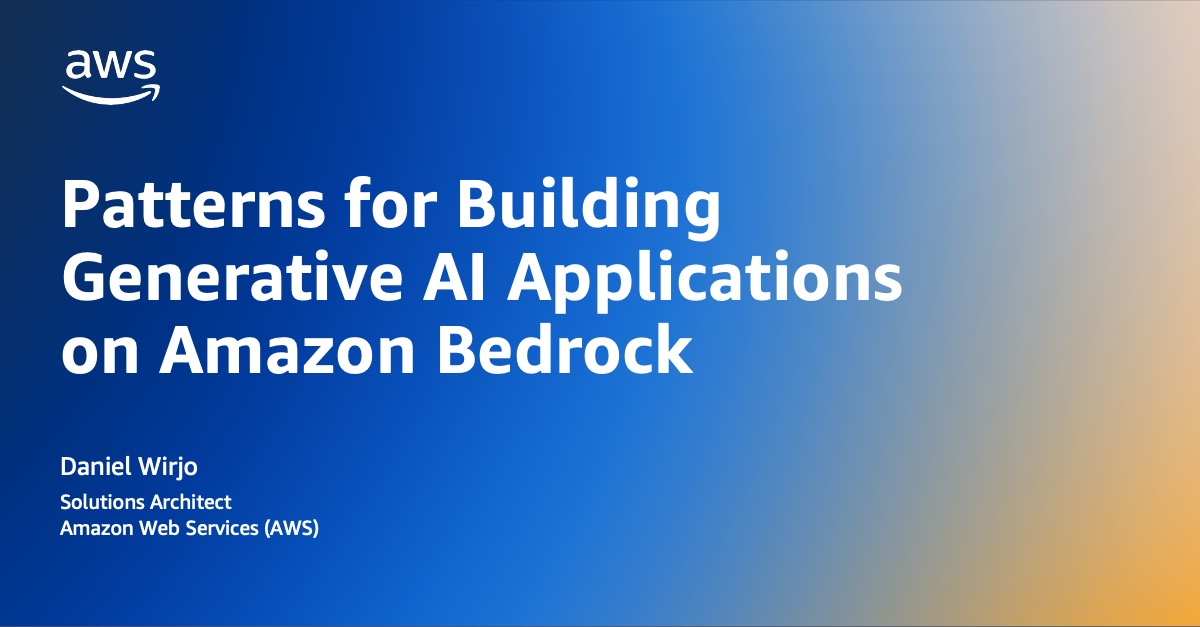
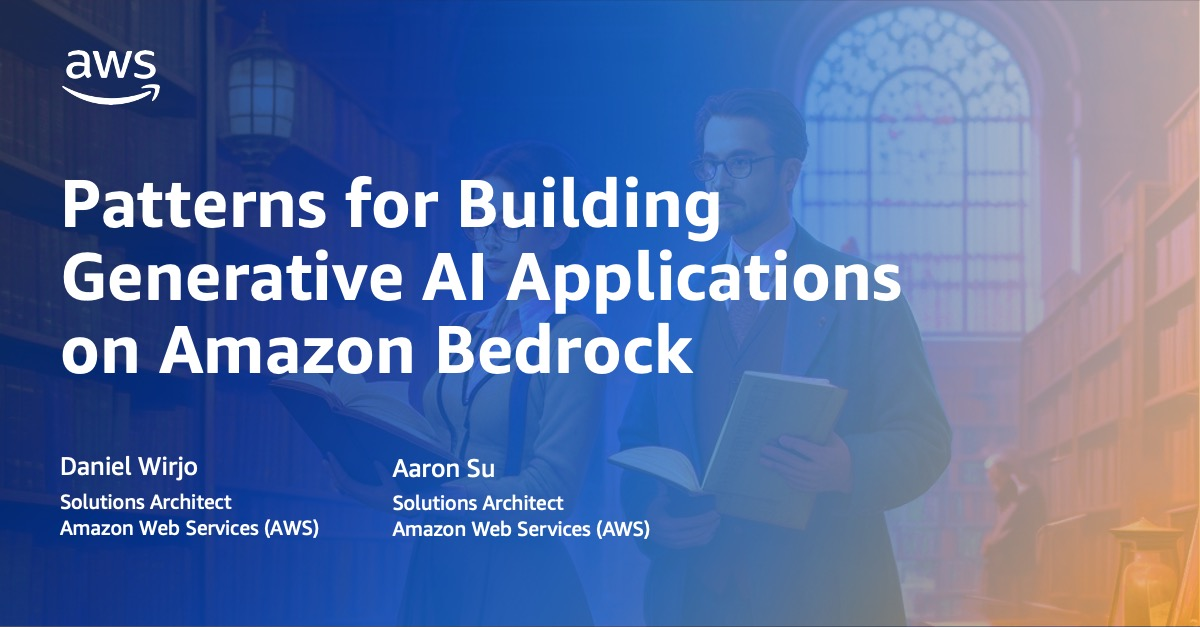
fix: add illustration and incorporate edits/feedback

diff --git a/posts/build-generative-ai-applications-with-amazon-bedrock/index.md b/posts/build-generative-ai-applications-with-amazon-bedrock/index.md
@@ -1,9 +1,10 @@
 ---
 title: "Patterns for Building Generative AI Applications on Amazon Bedrock"
-description: Software developers are embracing generative AI. This post covers high-level reference architectures for common scenarios, considerations and best-practices learned from our experience working with early adopters.
+description: With generative AI, we are introduced to a new, exciting and powerful primitive for building software. Learn how you can build generative AI applications without deep machine learning expertise. We cover foundational patterns, considerations, and practices learned from our experience working with early adopters.
 tags:
   - generative-ai
   - bedrock
+  - ai-ml
   - langchain
 spaces:
   - generative-ai
@@ -14,7 +15,9 @@ images:
   hero: images/cover.jpg
 authorGithubAlias: wirjo
 authorName: Daniel Wirjo
-date: 2023-10-09
+additionalAuthors: 
+  - authorGithubAlias: aaronsu11
+    authorName: Aaron Su
 ---
 
 |ToC|
@@ -22,20 +25,27 @@ date: 2023-10-09
 
 ## Introduction to Generative AI
 
-Software developers are embracing generative AI. With foundation models (FMs) now accessible on [Amazon Bedrock](https://aws.amazon.com/bedrock/), small teams can build and scale generative AI applications without deep machine learning (ML) expertise and resources. This post covers three high-level reference architectures for common scenarios, considerations and best-practices learned from our experience working with early adopters.
+Recently, we have seen a real interest among teams and developers on generative AI. While some are still figuring out what it means for their business and industries, others are all in: embracing the new possibilities. At AWS, we are excited to help you along the journey - from exploration of use cases, to implementation and deployment to production. We have been genuinely captivated by the continuing evolution of generative AI: from technical advancements, to discovering new use cases, and emerging approaches to developing software. 
+
+With [Amazon Bedrock](https://aws.amazon.com/bedrock/), you can now access leading generative AI foundation models (FMs) through easy-to-use APIs. With Bedrock, even small teams can build and scale generative AI applications. Whether you're enhancing existing customer experiences or innovating with new products and services, we're excited to see what you build. 
+
+In this post, you will delve into three high-level reference architectures, covering the key building blocks of generative AI applications. Drawn from our collaboration with early adopters, you will learn about practical considerations and emerging best-practices to guide your implementation.
+
 ## Why Generative AI?
 
-Typically, traditional ML models only perform a single task. They require a build, train and deploy lifecycle (MLOps) which can be challenging for smaller teams. On the other hand, FMs are trained on large datasets. They use broad knowledge to solve multiple tasks, such as text generation, classification, analysis and summarisation. They enable emerging architectures previously not possible. They are significantly easier to build, scale and maintain. 
+Typically, traditional ML models can only perform a single task. They require a build, train and deploy lifecycle (MLOps) which can be challenging for smaller teams. On the other hand, FMs are trained on large datasets. They use broad knowledge to solve multiple tasks, such as text generation, classification, analysis and summarisation — all through natural language prompts. They enable emerging architectures previously not possible. And, they are significantly easier to build, scale and maintain. 
 
 ## Retrieval Augmented Generation (RAG) Application
 
-You can incorporate generative AI into your applications leveraging your own data. This is driven by a foundational architecture, *retrieval-augmented generation (RAG)*. It solves inherent knowledge limitations of FMs by integrating with data that are not part of the model’s training. All achieved without complexities associated with re-training and managing MLOps processes.
+You can incorporate generative AI into your applications leveraging your own data. This is driven by a foundational architecture, *retrieval-augmented generation (RAG)*. It solves inherent knowledge limitations of FMs by integrating with data that are not part of the model’s training. All achieved without complexities associated with re-training and MLOps.
+
+To illustrate, imagine a skilled researcher (retrieval) that fetches the most relevant books from a vast library, and a creative expert professional (generation) that suggests ideas and answers with the knowledge in the books.
+
+![Illustration of retrieval-augmented generation analogy](./images/rag-illustration.jpg "Illustration of RAG concept generated with Leonardo Ai")
 
 ### Example RAG Prompt
 
-To illustrate, imagine a skilled researcher (retrieval) that fetches the most relevant books from a vast library, and a creative expert professional (generation) that suggests ideas and answers with the knowledge in the books. 
-
-Now, consider a prompt with *context* (retrieval) and *instruction* (generation) elements:
+Now, consider a prompt with *context* (retrieval) and *instruction* (generation) elements. Here, you provide *context* by finding and inserting the relevant data to the question (retrieval). And, you provide *instruction* to conduct a task based on the context such as summarization (generation).
 
 ```
 Context:
@@ -48,57 +58,75 @@ Context:
 Instruction: 
 You are an expert AWS Solutions Architect. 
 Provide me with expert insights on {question}. 
-Summarize insights and recommendations based only on the context. 
-If the context does not provide the answer, say "I don't know".
-```
-
-Here, you provide *context* by finding and inserting the relevant data to the question (retrieval). And, you provide *instruction* to conduct a task based on the context such as summarization (generation). Commonly, instructions can also: 
-* Prevent hallucination by [letting the model say “I don’t know”](https://docs.anthropic.com/claude/docs/let-claude-say-i-dont-know)  
-* Provide a level of explainability by [asking to cite sources](https://docs.anthropic.com/claude/docs/advanced-text-analysis) 
+Summarize insights and recommendations based only on the Context. 
+If the Context does not provide the answer, say "I don't know".
+``` 
 
 Note curly brackets `{placeholders}` are template placeholders and you replace them with actual data.   
 
-### AWS Reference Architecture for a RAG Application 
+### Hallucination and Explainability
 
-A RAG application consists of key components:
+As FMs are fundamentally probabilistic models, they can hallucinate and may provide made up, erroneous outputs. To mitigate this, models such as [Anthropic Claude](https://aws.amazon.com/bedrock/claude/) support instructions to: 
+
+* Prevent hallucination by [letting the model say “I don’t know”](https://docs.anthropic.com/claude/docs/let-claude-say-i-dont-know)  
+* Provide a level of explainability by [asking to cite sources](https://docs.anthropic.com/claude/docs/advanced-text-analysis) 
+
+As a result, these instructions are commonly used in a [prompt template](https://js.langchain.com/docs/modules/model_io/prompts/prompt_templates/). Crafting the right prompt (also known as [prompt engineering](https://aws.amazon.com/what-is/prompt-engineering/)) is a key component in building generative AI applications.
+
+### Reference Architecture
+
+At a high-level, the architecture consists of two key components:
 * **RAG Pipeline** to process data from your knowledge sources
-* **RAG Runtime** to process user prompts 
+* **RAG Runtime** to process user prompts using Bedrock
 
-#### RAG Pipeline
+To orchestrate, you adopt an open-source tool, such as [LangChain](https://js.langchain.com/docs/get_started/introduction). LangChain contains pre-built libraries for integrating with [various data sources](https://js.langchain.com/docs/modules/data_connection/) and [Bedrock](https://python.langchain.com/docs/integrations/platforms/aws). Alternatively, you can use [LlamaIndex](https://docs.llamaindex.ai/) or [Haystack](https://docs.haystack.deepset.ai/). 
+
+### RAG Pipeline
+
+First, you convert data from knowledge sources (such as [Amazon S3](https://aws.amazon.com/s3/) or [Amazon DynamoDB](https://aws.amazon.com/dynamodb/)) to an appropriate vector format for later retrieval. 
+
 ![AWS reference architecture for a retrieval-augmented generation (RAG) pipeline](./images/image.png)
-First, you convert data from your knowledge source (such as Amazon S3 or Amazon DynamoDB) to an appropriate vector format for later retrieval. You adopt an open-source FM orchestration tool, such as [LangChain](https://js.langchain.com/docs/get_started/introduction) (alternatively, [LlamaIndex](https://docs.llamaindex.ai/) and [Haystack](https://docs.haystack.deepset.ai/)). These tools contain pre-built libraries for [integrating with Bedrock](https://python.langchain.com/docs/integrations/platforms/aws) and [various data sources](https://js.langchain.com/docs/modules/data_connection/).  
 
 Consider the following steps:
 
 **Prepare:** You collect, clean and transform data for later processing. For example, you transform raw data into a structured format such as JSON, identify metadata that are useful for filtering and access control, and remove any erroneous or unnecessary data. 
 
-**Chunk:** For large text, you use [document transformers](https://js.langchain.com/docs/modules/data_connection/document_transformers/) to split them into chunks. This is because FMs have a limited context window. Typically, you find an optimal chunking strategy through trial and error. As it depends highly on the specific content, you will need to balance preserving context and maintaining accuracy.
+**Chunk:** FMs have a limited context window. For large text, you use [document transformers](https://js.langchain.com/docs/modules/data_connection/document_transformers/) to split them into chunks. Typically, you find an optimal chunking strategy through trial and error. As it depends highly on the specific content, you will need to balance preserving context and maintaining accuracy. 
 
-**Vectorize:** You convert data into embeddings. Embeddings is simply a vector representation of the data in a multi-dimensional space. It facilitates retrieval through similarity search. To get started, try an [embeddings model from Amazon Bedrock](https://docs.aws.amazon.com/bedrock/latest/userguide/embeddings.html). Alternatively, there are open-source models that are benchmarked on [Massive Text Embedding Benchmark \(MTEB\) leaderboard](https://huggingface.co/spaces/mteb/leaderboard) such as [sentence-transformer](https://huggingface.co/sentence-transformers). 
+**Vectorize:** You convert data into embeddings. An embedding is simply a vector representation of the data in a multi-dimensional space. It facilitates retrieval through similarity search. To get started, try an [embeddings model from Bedrock](https://docs.aws.amazon.com/bedrock/latest/userguide/embeddings.html). Alternatively, open-source models on [Massive Text Embedding Benchmark \(MTEB\) leaderboard](https://huggingface.co/spaces/mteb/leaderboard) such as [sentence-transformer](https://huggingface.co/sentence-transformers). 
 
-*Dimensionality:* Consider dimensionality of vector embeddings. For example, *Amazon Titan Text Embeddings* have 1,536 dimensions. Dense vectors with higher dimensions provide greater factors for similarity. However, your vector database may have limitations on dimensions. Sparse vectors with lower dimensions can also improve efficiency and performance.
+*Dimensionality:* Consider dimensionality of vector embeddings. For example, [Amazon Titan Text Embeddings](https://aws.amazon.com/bedrock/titan/) have 1,536 dimensions. Dense vectors with higher dimensions provide greater factors for similarity. However, sparse vectors with lower dimensions may improve efficiency and performance. And, vector databases may also impose limitations on dimensions.
 
-**Store:** You store the generated embeddings into a [vector database](https://aws.amazon.com/blogs/database/the-role-of-vector-datastores-in-generative-ai-applications/), such as [Amazon OpenSearch Serverless](https://aws.amazon.com/opensearch-service/serverless-vector-engine/). Initially, you load data in [bulk](https://opensearch.org/docs/latest/api-reference/document-apis/bulk/). As new data is generated, you build a pipeline. For example, you use [knowledge bases for Amazon Bedrock](https://docs.aws.amazon.com/bedrock/latest/userguide/knowledge-base.html) or build an event-driven architecture with [Amazon S3 events](https://docs.aws.amazon.com/AmazonS3/latest/userguide/EventNotifications.html) or [Amazon DynamoDB streams with Amazon EventBridge Pipe](https://docs.aws.amazon.com/eventbridge/latest/userguide/eb-pipes-dynamodb.html) to trigger a Lambda function to [index](https://opensearch.org/docs/latest/api-reference/document-apis/index-document/) new data. 
+**Store:** You store the embeddings into a [vector database](https://aws.amazon.com/blogs/database/the-role-of-vector-datastores-in-generative-ai-applications/), such as [Amazon OpenSearch Serverless](https://aws.amazon.com/opensearch-service/serverless-vector-engine/). Initially, you load data in [bulk](https://opensearch.org/docs/latest/api-reference/document-apis/bulk/). As new data is generated, you build a pipeline. For example, you use [knowledge bases for Amazon Bedrock](https://docs.aws.amazon.com/bedrock/latest/userguide/knowledge-base.html). Or, an event-driven architecture with [Amazon S3 events](https://docs.aws.amazon.com/AmazonS3/latest/userguide/EventNotifications.html) or [Amazon DynamoDB streams with Amazon EventBridge Pipe](https://docs.aws.amazon.com/eventbridge/latest/userguide/eb-pipes-dynamodb.html) to trigger a Lambda function to [index](https://opensearch.org/docs/latest/api-reference/document-apis/index-document/) new data. 
 
-As the vector store may handle sensitive data, consider security capabilities such as encryption and access control. You can also redact or mask of personal information prior to storage. For SaaS applications, consider [multi-tenancy](https://aws.amazon.com/blogs/apn/storing-multi-tenant-saas-data-with-amazon-opensearch-service/). In addition, there are many alternative vector database options, such as [Pinecone](https://aws.amazon.com/marketplace/seller-profile?id=03ee3233-4417-4279-81ac-8e3bbd6282e8), [Weaviate](https://aws.amazon.com/marketplace/seller-profile?id=seller-jxgfug62rvpxs) and [pgvector](https://aws.amazon.com/blogs/database/leverage-pgvector-and-amazon-aurora-postgresql-for-natural-language-processing-chatbots-and-sentiment-analysis/). For prototyping, in-memory stores, such as  [Faiss](https://js.langchain.com/docs/modules/data_connection/vectorstores/integrations/faiss) and [Chroma](https://js.langchain.com/docs/modules/data_connection/vectorstores/integrations/chroma), provide a convenient developer experience.
+*Data security:* As the vector database may handle sensitive data, consider data protection controls such as encryption, access control, and redaction/masking of sensitive personal information. 
+
+*Multi-tenancy*: For SaaS applications, consider [multi-tenancy](https://aws.amazon.com/blogs/apn/storing-multi-tenant-saas-data-with-amazon-opensearch-service/) to keep data for a particular customer (tenant) private and inaccessible to others.
+
+*Vector databases*: In addition to OpenSearch, you can use [pgvector](https://aws.amazon.com/blogs/database/building-ai-powered-search-in-postgresql-using-amazon-sagemaker-and-pgvector/). For prototyping, you can use in-memory stores, such as [Faiss](https://js.langchain.com/docs/modules/data_connection/vectorstores/integrations/faiss) and [Chroma](https://js.langchain.com/docs/modules/data_connection/vectorstores/integrations/chroma), which provide a convenient developer experience to get started. For third-party vector databases, AWS Marketplace provides access to leading providers including [Pinecone](https://aws.amazon.com/marketplace/seller-profile?id=03ee3233-4417-4279-81ac-8e3bbd6282e8), [Weaviate](https://aws.amazon.com/marketplace/seller-profile?id=seller-jxgfug62rvpxs) and [MongoDB Atlas Vector Search](https://www.mongodb.com/products/platform/atlas-vector-search). 
 
 #### RAG Runtime
+At runtime, your application will need to process the user’s original input prompt and augment it with the retrieved context. 
 ![AWS reference architecture for retrieval-augmented generation (RAG)](./images/image%202.png)
-At runtime, your application will need to process the user’s input prompt and augment it with retrieved context. Consider the following steps:
 
-**Retrieve:** You retrieve relevant data from the vector database. In addition to vector storage, vector databases provide indexing and retrieval capabilities. A starting approach is *semantic search*. Here, you convert the input prompt into embeddings. Then, you find similar embeddings in the vector database using a k-nearest neighbors (kNN) algorithm. By using vectors, you can understand the meaning behind prompts and deliver contextually relevant results.
+Consider the following steps:
 
-*Advanced retrieval:* Domain-specific terminologies may not be represented well in the training data of the embeddings model. If this is the case, search results may be less accurate. You improve this with *hybrid search*. You combine semantic search with a [traditional document search, such as BM25](https://aws.amazon.com/what-is/document-search/).  In addition, consider orchestrating advanced retrieval techniques. For example , [maximal marginal relevance (MMR)](https://python.langchain.com/docs/modules/model_io/prompts/example_selectors/mmr) for diversity of results, or [ensemble retrieval](https://gpt-index.readthedocs.io/en/stable/examples/retrievers/ensemble_retrieval.html) to attempt multiple strategies at the same time.
+**Retrieve:** You retrieve relevant data from the vector database. In addition to vector storage, vector databases provide indexing and retrieval capabilities. A starting approach is *semantic search*. Here, you convert the input prompt into embeddings. Then, you find similar embeddings in the vector database using a nearest neighbors search. By using vectors, you understand the meaning behind prompts and deliver contextually relevant results. (Under the hood, a popular algorithm for vector search is Hierarchical Navigable Small World (HNSW), see [aws-samples/gofast-hnsw](https://github.com/aws-samples/gofast-hnsw)) 
 
-**Generate:** You generate an output by inputing a prompt with the retrieved data as context. The output depends on the model you choose, and prompt you design.
+*Advanced retrieval:* Unfortunately, entities or domain-specific terminologies may not be represented well in the training data of popular embeddings model. As a result, using semantic search alone may produce less accurate results. You improve this with *hybrid search*. Here, you combine semantic search with a traditional [document search (such as BM25)](https://aws.amazon.com/what-is/document-search/). In addition, consider orchestrating advanced retrieval techniques. For example, [contextual compression](https://js.langchain.com/docs/modules/data_connection/retrievers/how_to/contextual_compression) to remove irrelevant text, [maximal marginal relevance (MMR)](https://python.langchain.com/docs/modules/model_io/prompts/example_selectors/mmr) to diversify results, or [ensemble retrieval](https://python.langchain.com/docs/modules/data_connection/retrievers/ensemble) to combine multiple strategies.
 
-*Model selection:* With Bedrock, you get access to leading foundation models with enterprise-grade security. You choose a model that supports your use case, context length, and price-performance requirements. You use [InvokeModel](https://docs.aws.amazon.com/bedrock/latest/APIReference/API_runtime_InvokeModel.html) via the [AWS SDK](https://docs.aws.amazon.com/bedrock/latest/userguide/api-setup.html). Consistent with other AWS services, you configure access using AWS Identity and Access Management (IAM), view audit logs in AWS CloudTrail, optionally enable private connectivity using AWS PrivateLink. 
+**Generate:** You generate an output by inputting a prompt with the retrieved data as context. The output depends on the model you select, and prompt you design.
 
-*Prompt design:* For effective prompts, be specific with instructions. This includes the desired output format (such as text within specific template or length, or a structured format such as JSON, XML, YAML and markdown). Consider best-practices from the model provider. For example, see [prompt design for Anthropic Claude](https://docs.anthropic.com/claude/docs/introduction-to-prompt-design). For prototyping, you design a number of test cases. You set [temperature](https://docs.aws.amazon.com/bedrock/latest/userguide/model-parameters.html#model-parameters-claude) to `0` to mitigate randomness in the output for evaluation. 
+*Model selection:* With Bedrock, you get access to leading foundation models with enterprise-grade security. You choose a model that supports your use case, context length, and price-performance requirements. You use [InvokeModel](https://docs.aws.amazon.com/bedrock/latest/APIReference/API_runtime_InvokeModel.html) via the [AWS SDK](https://docs.aws.amazon.com/bedrock/latest/userguide/api-setup.html). Consistent with other AWS services, you configure access using [AWS IAM](https://aws.amazon.com/iam/), view audit logs in [AWS CloudTrail](https://aws.amazon.com/cloudtrail/), optionally enable private connectivity using [AWS PrivateLink](https://aws.amazon.com/privatelink/). 
+
+*Prompt design:* For effective prompts, be specific with instructions. This includes the desired output format (such as text within specific template or length, or a structured format such as JSON, XML, YAML and markdown). Consider best-practices from the model provider. For example, see [prompt design](https://docs.anthropic.com/claude/docs/introduction-to-prompt-design). For prototyping, you design a number of test cases. You set [temperature](https://docs.aws.amazon.com/bedrock/latest/userguide/model-parameters.html#model-parameters-claude) to `0` to mitigate randomness in the output for evaluation. 
 
 ## Generative AI Chat Applications
+With RAG as foundation, you build a conversational chat feature to provide a fast, intuitive and natural experience for your users. While this may sound simple, it can be deceivingly challenging to build. 
+
 ![AWS reference architecture for generative AI chat application](./images/image%203.png)
-With RAG as foundation, you build a conversational chat feature to provide a fast, intuitive and natural experience for your users. While this sounds simple, it can be deceivingly challenging to build. Consider additional elements required:  
+
+Consider additional elements:  
 
 **Memory:** You may need to remember previous interactions to understand follow-up questions. By default, models are stateless. However, you can incorporate [memory](https://js.langchain.com/docs/modules/memory/) with low-latency store such as [DynamoDB](https://js.langchain.com/docs/modules/memory/integrations/dynamodb).  There are advanced types of memory. For example, [conversation summary ](https://js.langchain.com/docs/modules/memory/how_to/summary)  for handling long-chat interactions. 
 
@@ -106,33 +134,33 @@ With RAG as foundation, you build a conversational chat feature to provide a fas
 ![AWS reference architecture for scalable generative AI application](./images/image%204.png)
 **Throughput (requests):** Your application may require high throughput. Consider [service quotas](https://docs.aws.amazon.com/bedrock/latest/userguide/quotas.html). To manage requests per minute (RPM), you use an [Amazon Simple Queue Service \(SQS\)](https://aws.amazon.com/sqs/) queue to asynchronously process requests. 
 
-**Throughput (tokens):** With generative AI services, you also need to manage tokens processed per minute (TPM). Tokens consumed depends on the length of prompts, usage frequency which can vary widely depending on the use case. 10,000 tokens is approximately equivalent to 750 words. One approach is to limit input prompts to a maximum number of words. When you achieve scale, consider [provisioned throughput](https://docs.aws.amazon.com/bedrock/latest/userguide/prov-throughput.html).   
+**Throughput (tokens):** With generative AI services, you also need to manage tokens processed per minute (TPM). Tokens consumed depends on the length of prompts, usage frequency which can vary widely depending on the use case. 1,000 tokens is approximately equivalent to 750 words. One approach is to limit input prompts to a maximum number of words. When you achieve scale, consider [provisioned throughput](https://docs.aws.amazon.com/bedrock/latest/userguide/prov-throughput.html).   
 
 **Monitoring:** You monitor token consumption by instrumenting [custom metrics](https://docs.aws.amazon.com/AmazonCloudWatch/latest/monitoring/publishingMetrics.html).  You add any additional context that can help you understand and manage performance, such as the model name and the tenant context. In addition, consider the [quota monitoring](https://aws.amazon.com/solutions/implementations/quota-monitor/) solution.
 
 ## Generative AI Advanced Workflow Applications
+
+As you build AI applications, you may start with simple model interactions. However, your user journey may have multiple steps that benefit from AI. You may require advanced, multi-step and parallel processes integrating with various systems. For example, a content creation tool can invoke variation of prompts in parallel. Leveraging the creativity of generative models, they generate multiple outputs for users to select. These outputs can be further improved through additional prompts and operations.
+
 ![AWS reference architecture for an advanced generative AI workflow application](./images/image%205.png)
-As you build AI applications, you may start with simple model interactions. However, your user journey may have multiple steps that benefit from AI. You may require advanced, multi-step and parallel processes integrating with various systems. 
 
-As an example, content creation tools can invoke the same prompt in parallel. Leveraging the randomness of generative models, they generate multiple outputs for users to select. These outputs can be further improved through additional prompts and operations.
+Consider additional elements:
 
-Consider additional elements required:
+**Orchestration:** In the infrastructure layer, you can orchestrate a workflow with event-driven services such as [Amazon EventBridge](https://aws.amazon.com/eventbridge/) and [AWS Step Functions](https://aws.amazon.com/step-functions/). In the application layer, tools such as LangChain support [chains](https://js.langchain.com/docs/modules/chains/) and [agents](https://js.langchain.com/docs/modules/agents/). 
 
-**Orchestration:** In the infrastructure layer, you can orchestrate with event-driven services such as [Amazon EventBridge](https://aws.amazon.com/eventbridge/) and [AWS Step Functions](https://aws.amazon.com/step-functions/). In the application layer, tools such as LangChain support [chains](https://js.langchain.com/docs/modules/chains/) and [agents](https://js.langchain.com/docs/modules/agents/) for advanced workflows. 
+**Prompt Chaining:** Many workflows require conditional logic, breaking down complex questions into multiple steps, and multiple retrievals. One approach is to feed the model’s response to a prompt, into the input for another prompt. See [prompt chaining](https://docs.anthropic.com/claude/docs/prompt-chaining). They may also require a precise output. For example, a JSON format with a specific structure with no political content. Here, you can have an additional prompt to double check the previous prompt for validity.
 
-**Prompt Chaining:** Many workflows require conditional logic, breaking down complex questions into multiple steps, and multiple retrievals. They may also require a precise output. For example, a JSON format with a specific structure. One approach is to feed the model’s response to a prompt, into the input for another prompt. See [prompt chaining](https://docs.anthropic.com/claude/docs/prompt-chaining) to learn more.
-
-**Function Calling:** Some foundation models, such as Claude, have been tuned for function calling. This enables a wide range of possibilities, including mathematical computation, external data and performing actions, such as email notifications. Here, you convert natural language into function instructions. For example, you can the following instruction to output: 
+**Function Calling:** Some foundation models, such as Claude, have been tuned for function calling. This enables a wide range of extensions, including performing mathematical computation, retrieval of data via APIs, and even actions, such as email notifications. Here, you convert a natural language instruction into function instructions. For example: 
 * Instruction: `What is the current weather in Sydney in celsius?` 
 * Output: `get_weather(location = "Sydney", units = "C")` 
 
-Then, you process the output text, and *actually* call the function separately. To achieve this, you simply define functions as context into a prompt. See example: 
+With the output, you then call the function separately. For the model to recognize the function(s), you simply define them as context into a prompt. For example: 
 
 ```xml
 <function>
 	<function_name>get_weather</function_name>
 	<function_description>Returns the current weather for a given location</function_description>
-	<required_argument>location (str): Name of city or airport code</	required_argument>
+	<required_argument>location (str): Name of city or airport code</required_argument>
 	<optional_argument>units (str): Temperature units, either "F" for Fahrenheit or "C" for Celsius, default "F"</optional_argument>
 	<returns> weather (dict): - temperature (float): Current temperature in degrees - condition (str): Short text description of weather conditions </returns>
 	<raises>ValueError: If invalid location provided</raises>
@@ -142,13 +170,13 @@ Then, you process the output text, and *actually* call the function separately. 
 </function>
 ```
 
-Alternatively, consider [Agents for Amazon Bedrock](https://aws.amazon.com/bedrock/agents/) for a managed solution.
+For a managed solution, consider [agents for Bedrock](https://aws.amazon.com/bedrock/agents/).
 
-**Multi-modal:**  In addition to text, many generative and embeddings models can process also process other modalities of data such as images, audio and videos. For example, embedding models such as CLIP can facilitate [similarity search for images](https://aws.amazon.com/blogs/machine-learning/implement-unified-text-and-image-search-with-a-clip-model-using-amazon-sagemaker-and-amazon-opensearch-service/). And, generative models such as stable diffusion can [generate images from text](https://aws.amazon.com/blogs/machine-learning/generate-images-from-text-with-the-stable-diffusion-model-on-amazon-sagemaker-jumpstart/).   
+**Multi-modal:**  In addition to text, many generative and embedding models process other modalities of data such as images, audio and videos. For example, embedding models such as CLIP can facilitate [similarity search for images](https://aws.amazon.com/blogs/machine-learning/implement-unified-text-and-image-search-with-a-clip-model-using-amazon-sagemaker-and-amazon-opensearch-service/). And, generative models such as stable diffusion can [generate images from text](https://aws.amazon.com/blogs/machine-learning/generate-images-from-text-with-the-stable-diffusion-model-on-amazon-sagemaker-jumpstart/).   
 
-**AWS AI/ML Stack:** For advanced use cases, it is not uncommon to combine multiple AI/ML capabilities. [AI services](https://aws.amazon.com/machine-learning/ai-services/) such as [Amazon Comprehend](https://aws.amazon.com/comprehend/) for entity detection. [Amazon SageMaker](https://aws.amazon.com/pm/sagemaker/) to access open-source models from [Hugging Face](https://docs.aws.amazon.com/sagemaker/latest/dg/hugging-face.html).  And, purpose-built ML [infrastructure](https://aws.amazon.com/machine-learning/infrastructure/) , such as [AWS Inferentia2](https://aws.amazon.com/machine-learning/inferentia/) for cost optimization at scale.
+**AWS AI/ML Stack:** For advanced use cases, you can combine multiple AI/ML capabilities. For example, [AI services](https://aws.amazon.com/machine-learning/ai-services/) such as [Amazon Comprehend](https://aws.amazon.com/comprehend/) for entity detection. [Amazon SageMaker](https://aws.amazon.com/pm/sagemaker/) to access open-source models from [Hugging Face](https://docs.aws.amazon.com/sagemaker/latest/dg/hugging-face.html). And, purpose-built ML [infrastructure](https://aws.amazon.com/machine-learning/infrastructure/), such as [AWS Inferentia2](https://aws.amazon.com/machine-learning/inferentia/) for cost optimization at scale.
 
 ## Conclusion
-Generative AI enables new and exciting applications and use cases. This post aims to guide you in building these applications. It outlines high-level reference architectures, considerations and best-practices. It covers key elements of common generative AI applications, including: retrieval-augmented generation (RAG), chat and advanced workflow applications. 
+For developers, generative AI with [Amazon Bedrock](https://aws.amazon.com/bedrock/) is a new building block, opening doors to explore innovative and exciting use cases. In this post, you learned about foundational patterns for generative AI applications. You delved into retrieval-augmented generation (RAG) including the role of prompt engineering and vector search. Expanding on this foundation, you then explored common generative AI use cases, including chat and advanced workflows. This post hopes to serve as a valuable guide, reference and inspiration for your journey with generative AI. 
 
 To get started with Amazon Bedrock, try the [hands-on workshop](https://github.com/aws-samples/amazon-bedrock-workshop).
